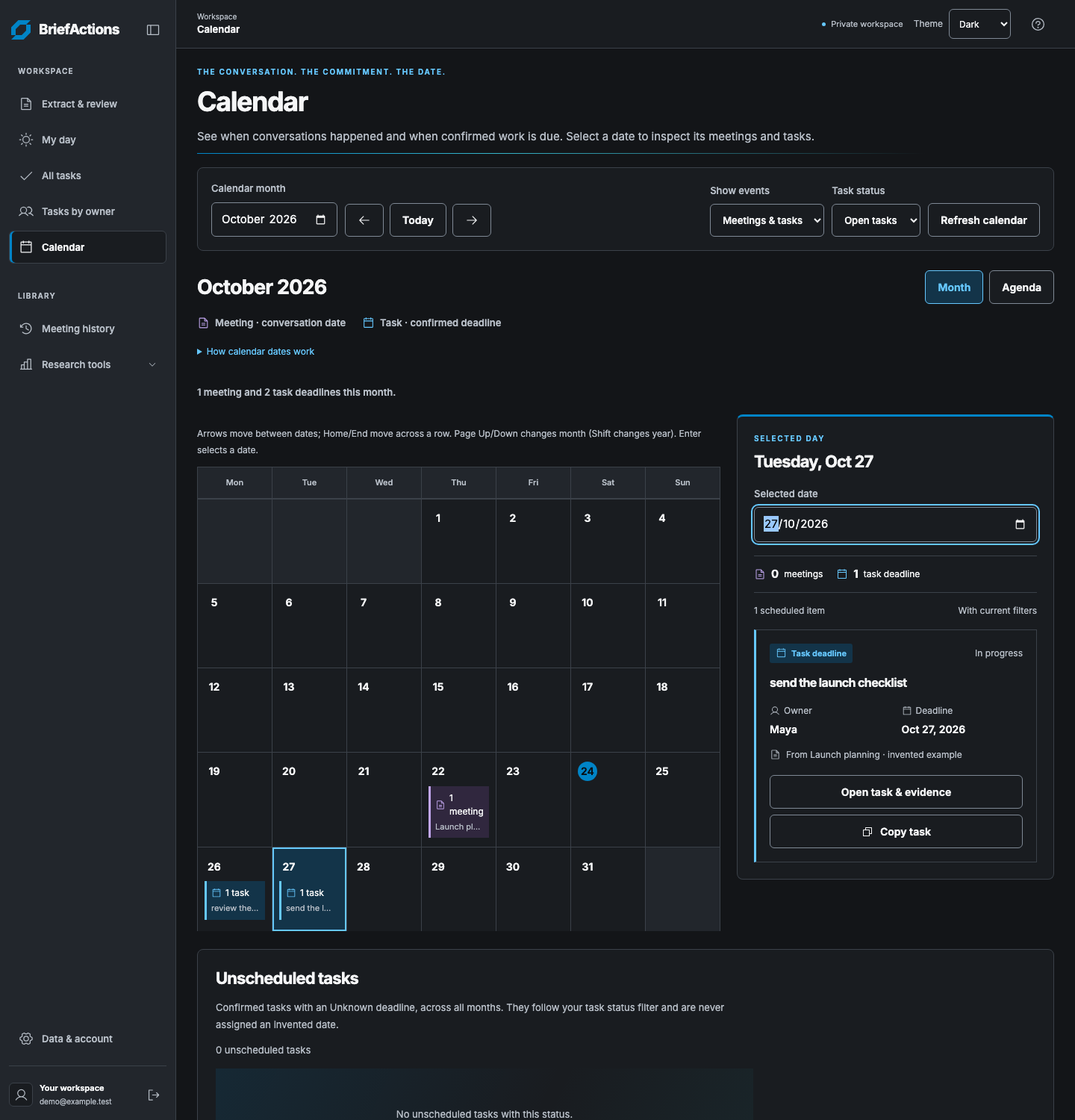
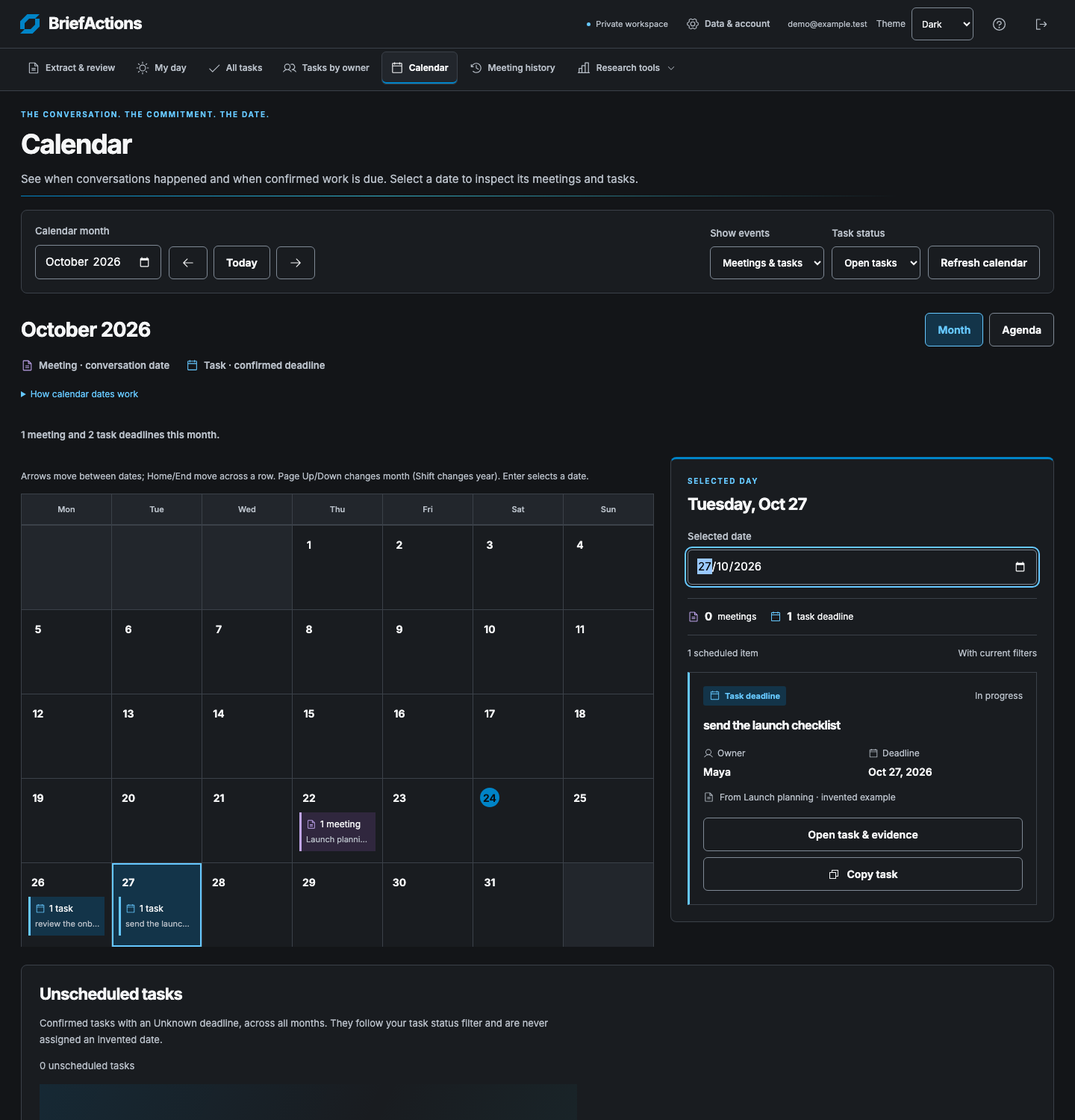
Move workspace navigation to the top

diff --git a/web/src/workspace-shell.css b/web/src/workspace-shell.css
@@ -1,113 +1,85 @@
-/* The workspace shell owns navigation only; the review and planning views keep
-   their existing responsive layouts and explicit save/confirmation boundaries. */
-.workspace-app-layout{
- --sidebar-width:236px;
- --radius-control:6px;
- --radius-panel:8px;
- background:var(--canvas);
- min-height:100dvh;
-}
-.workspace-app-layout.sidebar-collapsed{--sidebar-width:80px}
-.workspace-body{margin-left:var(--sidebar-width);min-width:0}
-.workspace-sidebar{
- position:fixed;inset:0 auto 0 0;z-index:12;width:var(--sidebar-width);
- display:flex;flex-direction:column;overflow-y:auto;overscroll-behavior:contain;
- background:var(--surface-soft);border-right:1px solid var(--line);padding:0 12px 12px;
-}
-.sidebar-heading{display:flex;align-items:center;justify-content:space-between;gap:4px;min-height:80px}
-.sidebar-heading .brand{gap:8px;min-width:0;flex-shrink:1}
-.sidebar-heading .brand-mark{width:32px;height:32px}
-.sidebar-heading .brand-name{font-size:19px;letter-spacing:-.7px}
+/* Navigation stays above the desktop workspace; mobile retains its quick bar. */
+.workspace-app-layout{--radius-control:6px;--radius-panel:8px;background:var(--canvas);min-height:100dvh}
+.workspace-body{min-width:0}
 .shell-icon-button{display:inline-flex;align-items:center;justify-content:center;flex:none;width:44px;min-height:44px;padding:8px;border:1px solid transparent;border-radius:6px;color:var(--muted);background:transparent}
-.shell-icon-button:hover{color:var(--text);background:var(--surface);border-color:var(--line)}
-.sidebar-heading .sidebar-toggle{width:36px}
-.sidebar-group-label{font-size:10px;font-weight:650;letter-spacing:1.2px;text-transform:uppercase;padding:8px 12px 10px;line-height:1.5}
-.sidebar-library-label{margin-top:24px}
-.workspace-app-layout .nav-item{width:100%;justify-content:flex-start;gap:11px;min-height:44px;padding:10px 12px;font-size:13px;line-height:1.45;white-space:normal;text-align:left;border:1px solid transparent;border-radius:6px}
-.workspace-app-layout .nav-item>.ui-icon{flex:none}
-.workspace-app-layout .nav-item.active{border-color:var(--line);background:var(--surface);background-image:none;color:var(--accent);font-weight:650;box-shadow:inset 3px 0 var(--primary)}
-.workspace-app-layout .nav-item:hover:not(:disabled){background:var(--surface);color:var(--text)}
-.sidebar-navigation{display:grid;gap:4px}
-.sidebar-footer{margin-top:auto;padding-top:32px}
-.sidebar-account{display:flex;align-items:center;gap:9px;border-top:1px solid var(--line);margin-top:14px;padding:16px 0 0;min-width:0}
-.sidebar-account-icon{display:flex;align-items:center;justify-content:center;width:32px;height:32px;background:var(--surface);border:1px solid var(--line);border-radius:6px;flex:none;color:var(--muted)}
-.sidebar-account-copy{min-width:0;flex:1}.sidebar-account-copy strong{display:block;font-size:11px;font-weight:650;color:var(--text)}
-.sidebar-account-copy .account-name{max-width:100%;font-size:10px;margin-top:3px}
-.sidebar-account .signout-button{width:36px}
-.workspace-app-layout .workspace-header{
- position:sticky;top:0;z-index:10;min-height:64px;padding:10px 28px;
- display:flex;align-items:center;justify-content:space-between;gap:16px;flex-wrap:nowrap;
- background:var(--surface);background-image:none;border-bottom:1px solid var(--line);
-}
+.shell-icon-button:hover{color:var(--text);background:var(--surface-soft);border-color:var(--line)}
+.workspace-app-layout .workspace-header{position:sticky;top:0;z-index:10;display:block;min-height:0;padding:0;gap:0;background:var(--surface);background-image:none;border-bottom:1px solid var(--line)}
+.workspace-toolbar{display:flex;align-items:center;justify-content:space-between;gap:16px;min-height:64px;padding:8px 24px}
 .workspace-location{display:flex;align-items:center;gap:10px;min-width:0}
-.workspace-location>div{min-width:0}
+.workspace-location .brand{gap:9px;flex:none}
+.workspace-location .brand-mark{width:32px;height:32px}
+.workspace-location .brand-name{font-size:22px;letter-spacing:-.8px}
+.workspace-location-copy{display:none;min-width:0}
 .workspace-location-label{display:block;font-size:10px;line-height:1.5;color:var(--muted)}
 .workspace-location-page{display:block;font-size:13px;font-weight:650;line-height:1.5;color:var(--text);white-space:nowrap;overflow:hidden;text-overflow:ellipsis}
-.workspace-mobile-brand{display:none}
-.workspace-toolbar-actions{display:flex;align-items:center;gap:14px;flex:none}
+.workspace-toolbar-actions{display:flex;align-items:center;gap:12px;flex:none}
 .workspace-scope{display:flex;align-items:center;gap:7px;font-size:11px;color:var(--muted)}
 .workspace-scope>span{width:5px;height:5px;border-radius:50%;background:var(--accent)}
+.workspace-app-layout .workspace-settings{display:flex;align-items:center;width:auto;order:initial;margin:0}
+.workspace-account-name{font-size:11px;max-width:180px}
 .workspace-app-layout .theme-control{gap:8px}
-.workspace-app-layout .theme-control select{min-height:40px;padding:6px 9px;font-size:12px}
+.workspace-app-layout .theme-control select{min-height:44px;padding:6px 9px;font-size:12px}
+.workspace-app-layout .nav-item{width:auto;justify-content:flex-start;gap:7px;min-height:44px;padding:9px 11px;font-size:12px;line-height:1.45;white-space:nowrap;text-align:left;border:1px solid transparent;border-radius:6px}
+.workspace-app-layout .nav-item>.ui-icon{flex:none}
+.workspace-app-layout .nav-item.active{border-color:var(--line);background:var(--accent-soft);background-image:none;color:var(--accent);font-weight:650;box-shadow:inset 0 -2px var(--primary)}
+.workspace-app-layout .nav-item:hover:not(:disabled){background:var(--surface-soft);color:var(--text)}
+.workspace-app-layout .workspace-top-navigation{display:flex;align-items:center;justify-content:flex-start;flex-wrap:nowrap;gap:4px;width:100%;order:initial;margin:0;padding:4px 24px 8px;border-top:1px solid var(--line)}
+.workspace-top-navigation .research-navigation{position:relative;display:block;flex:none;width:auto;min-width:0}
+.workspace-top-navigation .research-chevron{margin-left:2px}
+.workspace-top-navigation .research-links{position:absolute;inset:calc(100% + 6px) 0 auto auto;z-index:20;display:grid;width:300px;min-width:0;max-width:calc(100vw - 32px);padding:6px;margin:0;border:1px solid var(--control-border);border-radius:6px;background:var(--surface);box-shadow:none}
+.workspace-top-navigation .research-links[hidden]{display:none}
+.workspace-top-navigation .research-links .nav-item{width:100%;min-height:44px;white-space:normal;line-height:1.5;padding:10px 12px}
+.workspace-top-navigation .research-links .nav-item[aria-current=page]{background:var(--accent-soft);color:var(--accent);border-color:var(--line)}
 .workspace-app-layout .content{padding-top:24px;padding-bottom:36px}
-.workspace-app-layout .research-navigation{min-width:0;width:100%}
-.workspace-app-layout .research-navigation>.nav-item>span{flex:1}
-.workspace-app-layout .research-links{position:static;min-width:0;width:auto;max-width:none;padding:4px 0 0 14px;margin:0 0 0 20px;border:0;border-left:1px solid var(--line);background:transparent;box-shadow:none}
-.workspace-app-layout .research-links .nav-item{font-size:12px;min-height:44px;line-height:1.5;padding:10px 8px;white-space:normal}
-.workspace-app-layout .research-links .nav-item[aria-current=page]{background:var(--surface);color:var(--accent);border-color:var(--line)}
-.workspace-app-layout .research-chevron{margin-left:auto}
-.sidebar-collapsed .sidebar-heading{flex-direction:column;justify-content:center;gap:4px;padding:12px 0}
-.sidebar-collapsed .sidebar-heading .brand-wordmark,
-.sidebar-collapsed .sidebar-group-label,
-.sidebar-collapsed .sidebar-account-copy,
-.sidebar-collapsed .nav-label,
-.sidebar-collapsed .research-navigation>.nav-item>span,
-.sidebar-collapsed .research-chevron{position:absolute;width:1px;height:1px;padding:0;overflow:hidden;clip:rect(0,0,0,0);white-space:nowrap;border:0}
-.sidebar-collapsed .sidebar-library-label{margin-top:0}
-.sidebar-collapsed .nav-item{justify-content:center;padding:10px 8px}
-.sidebar-collapsed .sidebar-account{flex-direction:column}
-.sidebar-collapsed .research-links{margin:0;padding:4px 0 0;border:0}
-.sidebar-collapsed .research-links .nav-item{font-size:10px;text-align:center;overflow-wrap:anywhere;padding:8px 2px}
 .workspace-navigation-dialog{width:min(336px,calc(100vw - 24px));max-width:none;max-height:calc(100dvh - 24px);padding:0 16px 16px;border:1px solid var(--line);border-radius:12px;background:var(--surface);color:var(--text);overflow-y:auto;overscroll-behavior:contain}
 .workspace-navigation-dialog::backdrop{background:rgb(10 16 24 / .5)}
-.workspace-navigation-dialog .sidebar-heading{min-height:72px}
-.workspace-navigation-dialog .sidebar-heading .brand-name{font-size:21px}
-.workspace-navigation-dialog .sidebar-footer{padding-top:24px}
-.workspace-navigation-dialog .nav-item:hover:not(:disabled){background:var(--surface-soft)}
-.workspace-navigation-dialog .sidebar-account-icon{background:var(--surface-soft)}
+.navigation-dialog-heading{display:flex;align-items:center;justify-content:space-between;gap:4px;min-height:72px}
+.navigation-dialog-heading .brand{gap:8px;min-width:0;flex-shrink:1}
+.navigation-dialog-heading .brand-mark{width:32px;height:32px}
+.navigation-dialog-heading .brand-name{font-size:21px;letter-spacing:-.7px}
+.mobile-main-navigation{display:grid;gap:4px}
+.navigation-group-label{font-size:10px;font-weight:650;letter-spacing:1.2px;text-transform:uppercase;padding:8px 12px 10px;line-height:1.5}
+.navigation-library-label{margin-top:24px}
+.workspace-navigation-dialog .nav-item{width:100%;white-space:normal;gap:11px;font-size:13px;padding:10px 12px}
+.workspace-navigation-dialog .research-navigation{display:block;min-width:0;width:100%}
+.workspace-navigation-dialog .research-navigation>.nav-item>span{flex:1}
+.workspace-navigation-dialog .research-chevron{margin-left:auto}
+.workspace-navigation-dialog .research-links{position:static;min-width:0;width:auto;max-width:none;padding:4px 0 0 14px;margin:0 0 0 20px;border:0;border-left:1px solid var(--line);background:transparent;box-shadow:none}
+.workspace-navigation-dialog .research-links .nav-item{font-size:12px;line-height:1.5;padding:10px 8px}
+.workspace-navigation-dialog .research-links .nav-item[aria-current=page]{background:var(--surface-soft);color:var(--accent);border-color:var(--line)}
+.navigation-dialog-footer{padding-top:24px}
+.navigation-account{display:flex;align-items:center;gap:9px;border-top:1px solid var(--line);margin-top:14px;padding-top:16px;min-width:0}
+.navigation-account-icon{display:flex;align-items:center;justify-content:center;width:32px;height:32px;background:var(--surface-soft);border:1px solid var(--line);border-radius:6px;flex:none;color:var(--muted)}
+.navigation-account-copy{min-width:0;flex:1}
+.navigation-account-copy strong{display:block;font-size:11px;font-weight:650;color:var(--text)}
+.navigation-account-copy .account-name{max-width:100%;font-size:10px;margin-top:3px}
+.navigation-account .signout-button{width:36px}
 .workspace-mobile-navigation{position:fixed;inset:auto 0 0;z-index:11;display:grid;grid-template-columns:repeat(5,minmax(0,1fr));padding:6px 8px calc(6px + env(safe-area-inset-bottom));border-top:1px solid var(--line);background:var(--surface);gap:4px}
 .workspace-mobile-navigation[hidden]{display:none}
 .workspace-mobile-navigation button{display:flex;flex-direction:column;align-items:center;justify-content:center;gap:4px;min-width:0;min-height:52px;padding:5px 2px;font-size:10px;font-weight:550;line-height:1.4;border:1px solid transparent;border-radius:6px;color:var(--muted);background:transparent}
 .workspace-mobile-navigation button.active{color:var(--accent);background:var(--accent-soft);border-color:var(--line);font-weight:650}
 .workspace-mobile-navigation button:hover:not(:disabled){color:var(--text);background:var(--surface-soft)}
 @media(min-width:961px){.workspace-mobile-navigation,.workspace-navigation-dialog{display:none}}
-@media(max-width:1100px) and (min-width:961px){.workspace-scope{display:none}}
+@media(max-width:1280px){.workspace-account-name{display:none}}
+@media(max-width:1100px){.workspace-scope{display:none}}
 @media(max-width:960px){
- .workspace-app-layout,.workspace-app-layout.sidebar-collapsed{--sidebar-width:0px;--mobile-navigation-height:calc(65px + env(safe-area-inset-bottom));padding-bottom:0}
+ .workspace-app-layout{--mobile-navigation-height:calc(65px + env(safe-area-inset-bottom));padding-bottom:0}
  .workspace-app-layout .workspace-body{height:100dvh;display:flex;flex-direction:column;padding-bottom:var(--mobile-navigation-height);overflow:hidden}
- .workspace-app-layout .workspace-header{position:static;flex:none;min-height:60px;padding:8px 16px;gap:8px}
+ .workspace-app-layout .workspace-header{position:static;flex:none;min-height:0;padding:0}
+ .workspace-toolbar{min-height:60px;padding:8px 16px;gap:8px}
  .workspace-app-layout #workspace-main{position:relative;flex:1;min-height:0;overflow-y:auto;overscroll-behavior:contain;scroll-padding-block:16px}
  .workspace-app-layout #workspace-main:has(.plan-confirmation){scroll-padding-bottom:180px}
  .workspace-toolbar-actions{gap:6px}
- .workspace-mobile-brand{display:block;flex:none}
- .workspace-mobile-brand .brand-mark{width:30px;height:30px}
- .workspace-mobile-brand .brand-wordmark{display:none}
- .workspace-location-label,.workspace-scope{display:none}
+ .workspace-location-copy{display:block}
+ .workspace-location .brand-mark{width:30px;height:30px}
+ .workspace-location .brand-wordmark,.workspace-location-label{display:none}
  .workspace-location-page{font-size:12px}
  .workspace-app-layout .theme-control{font-size:0;gap:0}
- .workspace-app-layout .theme-control select{min-height:44px;font-size:12px;padding:6px;max-width:87px}
+ .workspace-app-layout .theme-control select{font-size:12px;padding:6px;max-width:87px}
  .workspace-app-layout .content{padding:20px 16px 24px}
  .workspace-app-layout main{scroll-margin-bottom:84px}
  .workspace-app-layout :where(button,a,input,select,textarea,summary,[tabindex]){scroll-margin-bottom:90px}
- .sidebar-collapsed .workspace-navigation-dialog .sidebar-heading{flex-direction:row;justify-content:space-between;padding:0}
- .sidebar-collapsed .workspace-navigation-dialog :is(.brand-wordmark,.sidebar-group-label,.sidebar-account-copy,.nav-label,.research-navigation>.nav-item>span,.research-chevron){position:static;clip:auto;width:auto;height:auto;overflow:visible;white-space:normal}
- .sidebar-collapsed .workspace-navigation-dialog .sidebar-account-copy{flex:1}
- .sidebar-collapsed .workspace-navigation-dialog .nav-item{justify-content:flex-start;padding:10px 12px;text-align:left}
- .sidebar-collapsed .workspace-navigation-dialog .sidebar-account{flex-direction:row}
- .sidebar-collapsed .workspace-navigation-dialog .sidebar-library-label{margin-top:24px}
- .sidebar-collapsed .workspace-navigation-dialog .research-links{padding:4px 0 0 14px;margin-left:20px;border-left:1px solid var(--line)}
- .sidebar-collapsed .workspace-navigation-dialog .research-links .nav-item{font-size:12px}
 }
-@media(max-width:380px){.workspace-app-layout .workspace-header{padding-inline:12px}.workspace-location{gap:7px}.workspace-location-page{max-width:100px}.workspace-help{width:36px}.workspace-toolbar-actions{gap:2px}}
+@media(max-width:380px){.workspace-toolbar{padding-inline:12px}.workspace-location{gap:7px}.workspace-location-page{max-width:100px}.workspace-help{width:36px}.workspace-toolbar-actions{gap:2px}}
 @media(max-height:500px){.workspace-app-layout .workspace-header{position:static}}
 @media(forced-colors:active){.workspace-app-layout .nav-item.active,.workspace-mobile-navigation button.active{outline:2px solid Highlight;outline-offset:-2px;color:Highlight;forced-color-adjust:auto}}

diff --git a/web/src/WorkspaceShell.jsx b/web/src/WorkspaceShell.jsx
@@ -3,7 +3,6 @@ import Icon from './Icon.jsx';
 import ProductBrand from './ProductBrand.jsx';
 import ThemeControl from './ThemeControl.jsx';
 import ResearchNavigation from './ResearchNavigation.jsx';
-import accountStorage from './accountStorage.js';
 import useWorkspaceInset from './useWorkspaceInset.js';
 import './workspace-shell.css';
 
@@ -11,62 +10,47 @@ const quickPages=['extract','today','tasks','calendar'];
 const shortNames={extract:'Review',today:'My day',tasks:'Tasks',calendar:'Calendar'};
 
 export default function WorkspaceShell({children,pages,page,navigationKey,account,isDisabled,onNavigate,onHelp,onSignOut}){
- const [collapsed,setCollapsed]=useState(()=>{try{return accountStorage.getItem('flow.sidebarCollapsed')==='true';}catch{return false;}});
  const [mobile,setMobile]=useState(()=>matchMedia('(max-width:960px)').matches),[open,setOpen]=useState(false);
  const header=useRef(null),dialog=useRef(null),more=useRef(null),openedPage=useRef(null),returnFocus=useRef(false);
  useWorkspaceInset(header);
- useEffect(()=>{
-  const media=matchMedia('(max-width:960px)'),change=()=>{setMobile(media.matches);setOpen(false);};
-  media.addEventListener('change',change);return()=>media.removeEventListener('change',change);
- },[]);
+ useEffect(()=>{const media=matchMedia('(max-width:960px)'),change=()=>{setMobile(media.matches);setOpen(false);};media.addEventListener('change',change);return()=>media.removeEventListener('change',change);},[]);
  useEffect(()=>{
   const element=dialog.current;
   if(open&&mobile&&element&&!element.open){openedPage.current=page;returnFocus.current=true;element.showModal();}
   else if(!open){if(element?.open)element.close();if(returnFocus.current){returnFocus.current=false;if(mobile&&page===openedPage.current)more.current?.focus({preventScroll:true});}}
  },[open,mobile,page]);
  useEffect(()=>{dialog.current?.close();setOpen(false);},[navigationKey]);
- useEffect(()=>{
-  if(!open||!mobile)return;
-  const root=document.documentElement,previous=root.style.overflow;root.style.overflow='hidden';
-  return()=>{root.style.overflow=previous;};
- },[open,mobile]);
+ useEffect(()=>{if(!open||!mobile)return;const root=document.documentElement,previous=root.style.overflow;root.style.overflow='hidden';return()=>{root.style.overflow=previous;};},[open,mobile]);
  function close(){dialog.current?.close();setOpen(false);}
  function containFocus(event){
   if(event.key!=='Tab')return;
-  const controls=[...event.currentTarget.querySelectorAll('a[href],button:not(:disabled),[tabindex="0"]')].filter(element=>element.getClientRects().length);
-  const first=controls[0],last=controls.at(-1);
+  const controls=[...event.currentTarget.querySelectorAll('a[href],button:not(:disabled),[tabindex="0"]')].filter(element=>element.getClientRects().length),first=controls[0],last=controls.at(-1);
   if(event.shiftKey&&document.activeElement===first){event.preventDefault();last?.focus();}
   else if(!event.shiftKey&&document.activeElement===last){event.preventDefault();first?.focus();}
  }
  function navigate(id){close();onNavigate(id);}
- function toggleSidebar(){setCollapsed(value=>{try{accountStorage.setItem('flow.sidebarCollapsed',String(!value));}catch{}return !value;});}
  const current=pages.find(item=>item.id===page),otherPage=!quickPages.includes(page);
- const button=item=><button type="button" key={item.id} className={`nav-item ${page===item.id?'active':''}`} aria-current={page===item.id?'page':undefined} title={collapsed&&!mobile?item.name:undefined} disabled={isDisabled(item.id)} onClick={()=>navigate(item.id)}><Icon name={item.id==='data'?'settings':item.icon} size={20}/><span className="nav-label">{item.name}</span></button>;
- const navigation=<>
-  <div className="sidebar-heading"><ProductBrand href="/today" onClick={event=>{event.preventDefault();if(!isDisabled('today'))navigate('today');}}/>{mobile?<button type="button" className="shell-icon-button" aria-label="Close navigation" title="Close navigation" onClick={close}><Icon name="cancelled" size={21}/></button>:<button type="button" className="shell-icon-button sidebar-toggle" aria-label={collapsed?'Expand navigation':'Collapse navigation'} title={collapsed?'Expand navigation':'Collapse navigation'} aria-expanded={!collapsed} aria-controls="workspace-sidebar-navigation" onClick={toggleSidebar}><Icon name={collapsed?'sidebarOpen':'sidebarClose'} size={20}/></button>}</div>
-  <nav id="workspace-sidebar-navigation" className="sidebar-navigation" aria-label="Main navigation">
-   <p className="sidebar-group-label">Workspace</p>
-   {pages.filter(item=>['extract','today','tasks','owners','calendar'].includes(item.id)).map(button)}
-   <p className="sidebar-group-label sidebar-library-label">Library</p>
-   {button(pages.find(item=>item.id==='history'))}
-   <ResearchNavigation page={page} disabled={isDisabled('benchmark')} onNavigate={navigate} onOpen={()=>{if(collapsed&&!mobile)toggleSidebar();}}/>
-  </nav>
-  <div className="sidebar-footer"><nav aria-label="Workspace settings">{button(pages.find(item=>item.id==='data'))}</nav>
-   <div className="sidebar-account"><span className="sidebar-account-icon" aria-hidden="true"><Icon name="owner" size={19}/></span><div className="sidebar-account-copy"><strong>{account?'Your workspace':'Local workspace'}</strong><span className="account-name" title={account?.email}>{account?.email || (account?'Signed in':'Saved on this device')}</span></div>{account&&<button type="button" className="shell-icon-button signout-button" aria-label="Sign out" title="Sign out" onClick={onSignOut}><Icon name="signout" size={19}/></button>}</div>
-  </div>
- </>;
- return <div className={`app-shell workspace-app-layout${collapsed?' sidebar-collapsed':''}${open?' navigation-open':''}`}>
+ const brand=<ProductBrand href="/today" onClick={event=>{event.preventDefault();if(!isDisabled('today'))navigate('today');}}/>;
+ const button=item=><button type="button" key={item.id} className={`nav-item ${page===item.id?'active':''}`} aria-current={page===item.id?'page':undefined} disabled={isDisabled(item.id)} onClick={()=>navigate(item.id)}><Icon name={item.id==='data'?'settings':item.icon} size={18}/><span>{item.name}</span></button>;
+ const research=<ResearchNavigation page={page} disabled={isDisabled('benchmark')} onNavigate={navigate}/>;
+ const signOut=account&&<button type="button" className="shell-icon-button signout-button" aria-label="Sign out" title="Sign out" onClick={onSignOut}><Icon name="signout" size={19}/></button>;
+ return <div className={`app-shell workspace-app-layout${open?' navigation-open':''}`}>
   <a className="skip-link" href="#workspace-main">Skip to workspace</a>
-  {!mobile?<aside className="workspace-sidebar" aria-label="Workspace sidebar">{navigation}</aside>:<dialog ref={dialog} className="workspace-navigation-dialog" aria-label="Workspace navigation" onKeyDown={containFocus} onCancel={event=>{event.preventDefault();close();}} onClose={()=>setOpen(false)} onClick={event=>{const box=event.currentTarget.getBoundingClientRect();if(event.target===event.currentTarget&&(event.clientX<box.left||event.clientX>box.right||event.clientY<box.top||event.clientY>box.bottom))close();}}>{navigation}</dialog>}
-  <div className="workspace-body"><header ref={header} className="workspace-header workspace-toolbar">
-   <div className="workspace-location"><div className="workspace-mobile-brand"><ProductBrand href="/today" onClick={event=>{event.preventDefault();if(!isDisabled('today'))navigate('today');}}/></div><div><span className="workspace-location-label">Workspace</span><span className="workspace-location-page">{current.name}</span></div></div>
-   <div className="workspace-toolbar-actions"><span className="workspace-scope"><span aria-hidden="true"/>{account?'Private workspace':'Local preview'}</span><ThemeControl/><button type="button" className="shell-icon-button workspace-help" aria-label="Help" title="Help & walkthroughs" onClick={onHelp}><Icon name="help" size={21}/></button></div>
+  {mobile&&<dialog ref={dialog} className="workspace-navigation-dialog" aria-label="Workspace navigation" onKeyDown={containFocus} onCancel={event=>{event.preventDefault();close();}} onClose={()=>setOpen(false)} onClick={event=>{const box=event.currentTarget.getBoundingClientRect();if(event.target===event.currentTarget&&(event.clientX<box.left||event.clientX>box.right||event.clientY<box.top||event.clientY>box.bottom))close();}}>
+   <div className="navigation-dialog-heading">{brand}<button type="button" className="shell-icon-button" aria-label="Close navigation" title="Close navigation" onClick={close}><Icon name="cancelled" size={21}/></button></div>
+   <nav className="mobile-main-navigation" aria-label="Main navigation"><p className="navigation-group-label">Workspace</p>{pages.filter(item=>['extract','today','tasks','owners','calendar'].includes(item.id)).map(button)}<p className="navigation-group-label navigation-library-label">Library</p>{button(pages.find(item=>item.id==='history'))}{research}</nav>
+   <div className="navigation-dialog-footer"><nav aria-label="Workspace settings">{button(pages.find(item=>item.id==='data'))}</nav><div className="navigation-account"><span className="navigation-account-icon" aria-hidden="true"><Icon name="owner" size={19}/></span><div className="navigation-account-copy"><strong>{account?'Your workspace':'Local workspace'}</strong><span className="account-name" title={account?.email}>{account?.email || (account?'Signed in':'Saved on this device')}</span></div>{signOut}</div></div>
+  </dialog>}
+  <div className="workspace-body"><header ref={header} className="workspace-header workspace-top-header">
+   <div className="workspace-toolbar"><div className="workspace-location">{brand}<div className="workspace-location-copy"><span className="workspace-location-label">Workspace</span><span className="workspace-location-page">{current.name}</span></div></div>
+    <div className="workspace-toolbar-actions">{!mobile&&<><span className="workspace-scope"><span aria-hidden="true"/>{account?'Private workspace':'Local preview'}</span><nav className="workspace-settings" aria-label="Workspace settings">{button(pages.find(item=>item.id==='data'))}</nav>{account&&<span className="account-name workspace-account-name" title={account.email}>{account.email || 'Signed in'}</span>}</>}<ThemeControl/><button type="button" className="shell-icon-button workspace-help" aria-label="Help" title="Help & walkthroughs" onClick={onHelp}><Icon name="help" size={21}/></button>{!mobile&&signOut}</div>
+   </div>
+   {!mobile&&<nav className="workspace-top-navigation" aria-label="Main navigation">{pages.filter(item=>!['benchmark','annotations','data'].includes(item.id)).map(button)}{research}</nav>}
   </header>
   {mobile&&<nav className="workspace-mobile-navigation" aria-label="Quick navigation" hidden={open}>
    {quickPages.map(id=>{const item=pages.find(value=>value.id===id);return <button type="button" key={id} aria-label={item.name} aria-current={page===id?'page':undefined} disabled={isDisabled(id)} className={page===id?'active':''} onClick={()=>navigate(id)}><Icon name={item.icon} size={21}/><span>{shortNames[id]}</span></button>;})}
    <button ref={more} type="button" className={otherPage?'active':''} aria-label="More navigation" aria-haspopup="dialog" aria-expanded={open} onClick={()=>setOpen(true)}><Icon name="menu" size={21}/><span>More</span></button>
   </nav>}
-
   {children}</div>
  </div>;
 }

diff --git a/web/src/Icon.jsx b/web/src/Icon.jsx
@@ -21,12 +21,11 @@ import {UsersIcon} from '@phosphor-icons/react/dist/csr/Users';
 import {WarningCircleIcon} from '@phosphor-icons/react/dist/csr/WarningCircle';
 import {XIcon} from '@phosphor-icons/react/dist/csr/X';
 import {QuestionIcon} from '@phosphor-icons/react/dist/csr/Question';
-import {SidebarSimpleIcon} from '@phosphor-icons/react/dist/csr/SidebarSimple';
 import {ListIcon} from '@phosphor-icons/react/dist/csr/List';
 import {GearSixIcon} from '@phosphor-icons/react/dist/csr/GearSix';
 import {SignOutIcon} from '@phosphor-icons/react/dist/csr/SignOut';
 
-const icons={arrow:ArrowRightIcon,external:ArrowUpRightIcon,calendar:CalendarBlankIcon,chevron:CaretDownIcon,chart:ChartBarIcon,check:CheckIcon,history:ClockCounterClockwiseIcon,copy:CopyIcon,download:DownloadSimpleIcon,unchanged:EqualsIcon,extract:FileTextIcon,flow:LightningIcon,changed:PencilSimpleIcon,added:PlusIcon,quote:QuotesIcon,day:SunIcon,spinner:SpinnerGapIcon,owner:UserIcon,owners:UsersIcon,attention:WarningCircleIcon,cancelled:XIcon,help:QuestionIcon,sidebarOpen:SidebarSimpleIcon,sidebarClose:SidebarSimpleIcon,menu:ListIcon,signout:SignOutIcon,settings:GearSixIcon};
+const icons={arrow:ArrowRightIcon,external:ArrowUpRightIcon,calendar:CalendarBlankIcon,chevron:CaretDownIcon,chart:ChartBarIcon,check:CheckIcon,history:ClockCounterClockwiseIcon,copy:CopyIcon,download:DownloadSimpleIcon,unchanged:EqualsIcon,extract:FileTextIcon,flow:LightningIcon,changed:PencilSimpleIcon,added:PlusIcon,quote:QuotesIcon,day:SunIcon,spinner:SpinnerGapIcon,owner:UserIcon,owners:UsersIcon,attention:WarningCircleIcon,cancelled:XIcon,help:QuestionIcon,menu:ListIcon,signout:SignOutIcon,settings:GearSixIcon};
 
 export default function Icon({name,size=20,className=''}){
  const Symbol=icons[name];

diff --git a/docs/user-guide.md b/docs/user-guide.md
@@ -11,11 +11,9 @@ or task link returns to that item after sign-in. Local development instead shows
 The public homepage always uses its own mix of light and dark sections.
 
 Desktop navigation follows this order: **Extract & review → My day → All tasks → Tasks by owner → Calendar → Meeting history**.
-The sidebar groups everyday work above your meeting library and Research tools.
-Use **Collapse navigation** to leave an icon rail, or **Expand navigation** to
-restore the labels. This choice is remembered in this browser for your account
-when browser storage is available. Opening Research tools expands a collapsed
-sidebar so its links remain readable.
+Everyday work and Research tools appear in a horizontal navigation row at the top.
+The row above holds the brand, account controls, Theme, and Help. The workspace
+uses the full width; there is no side navigation or collapse control.
 
 On phones and narrower tablets, use the bottom bar for **Review**, **My day**,
 **Tasks**, and **Calendar**. **More** opens the remaining sections, account controls,
@@ -25,7 +23,7 @@ The slim top toolbar keeps the current section, Theme, and Help close to hand.
 Start in **Extract & review**: add a transcript, check proposed actions, then confirm
 your plan. Its **Start here** label, three-step progress bar, sample, and optional
 walkthrough help you get started. Use **My day** to choose your next step once work
-is saved. **Data & account** sits at the foot of the desktop sidebar and inside
+is saved. **Data & account** sits in the desktop toolbar and inside
 More on smaller screens. Signed-in users can also sign out there.
 The optional **Research tools** menu stays collapsed until you open it; you do not
 need a machine-learning background to turn a meeting into tasks. Open **Help** anywhere

diff --git a/docs/development.md b/docs/development.md
@@ -17,7 +17,7 @@ React / Vite → Node HTTP API → Python bridge → extraction and history
 | --- | --- |
 | `web/src/main.jsx`, `web/src/AuthShell.jsx` | Public entry, sign-in, account scope, and deferred workspace loading |
 | `web/src/WorkspaceApp.jsx`, `web/src/styles.css` | Private workspace, themes, and responsive UI |
-| `web/src/WorkspaceShell.jsx`, `web/src/workspace-shell.css` | Collapsible sidebar, slim toolbar, mobile navigation, modal keyboard handling, and account-scoped browser layout preference |
+| `web/src/WorkspaceShell.jsx`, `web/src/workspace-shell.css` | Compact top navigation, full-width desktop workspace, mobile navigation, and modal keyboard handling |
 | `web/src/DeferredSection.jsx`, `web/src/BenchmarkPage.jsx`, `web/src/AnnotationReviewer.jsx` | On-demand research screens and explicit chunk-load recovery |
 | `server/` | HTTP routes, authentication, request limits, worker lifecycle, and built asset serving |
 | `web_bridge.py`, `export_bridge.py` | JSON worker protocol and streaming workspace export |
@@ -529,7 +529,7 @@ on a product default. The fixture preference is seeded only once per origin so i
 does not undo account-erasure tests or later user layout choices.
 
 The workspace shell has a dedicated `tests/workspace-shell.browser.mjs` check.
-It exercises expanded/collapsed desktop navigation, remembered collapse, research
+It exercises horizontal desktop navigation, retired sidebar-preference compatibility, research
 disclosure, mobile More, Tab/Shift+Tab containment, nested Escape, focus return,
 preserved review choices, and light/dark accessibility from 320 to 1600 pixels,
 including the 960/961-pixel layout boundary and short landscape screens. Native

diff --git a/README.md b/README.md
@@ -104,7 +104,7 @@ using. Calendar, history, and My day refresh when the extraction finishes.
 
 Light, Dark, and System themes are available on sign-in and workspace screens.
 The interface supports keyboard navigation and adapts to desktop and mobile screens.
-Desktop navigation uses a collapsible sidebar and a slim toolbar. On smaller
+Desktop navigation runs across the top, leaving the full width for your work. On smaller
 screens, the bottom bar keeps Review, My day, Tasks, and Calendar close to hand;
 More opens meeting history, Research tools, and account controls.
 
